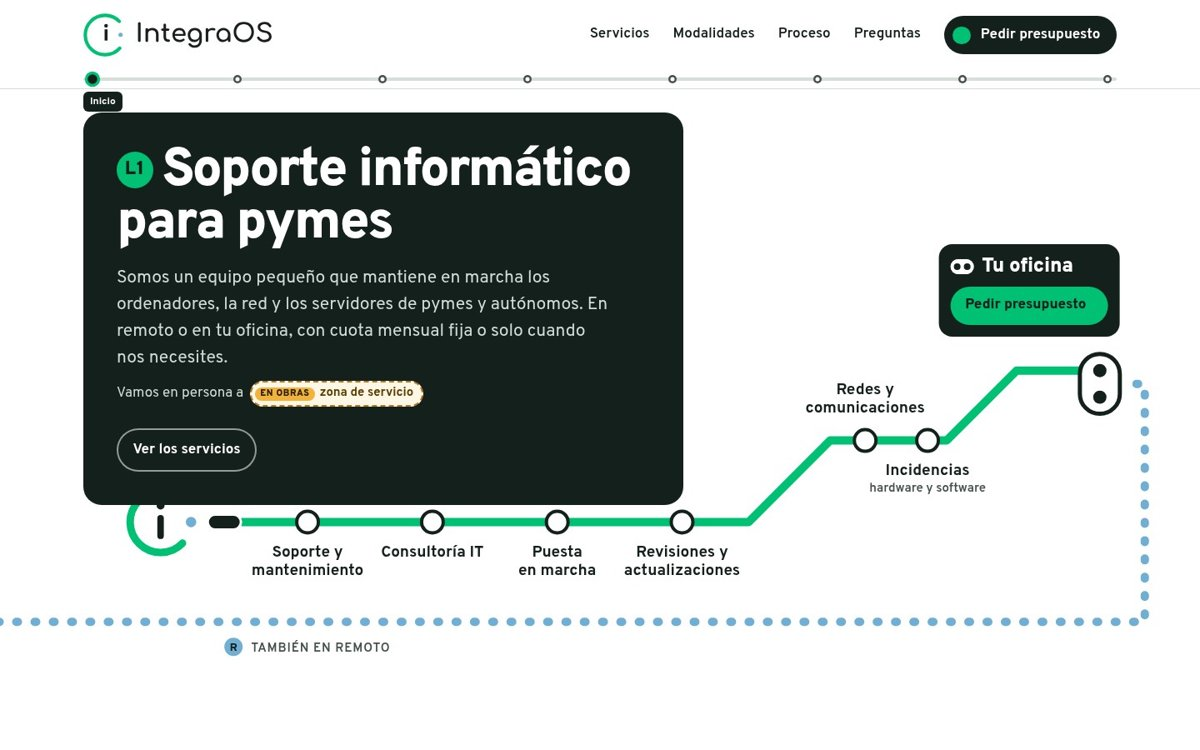
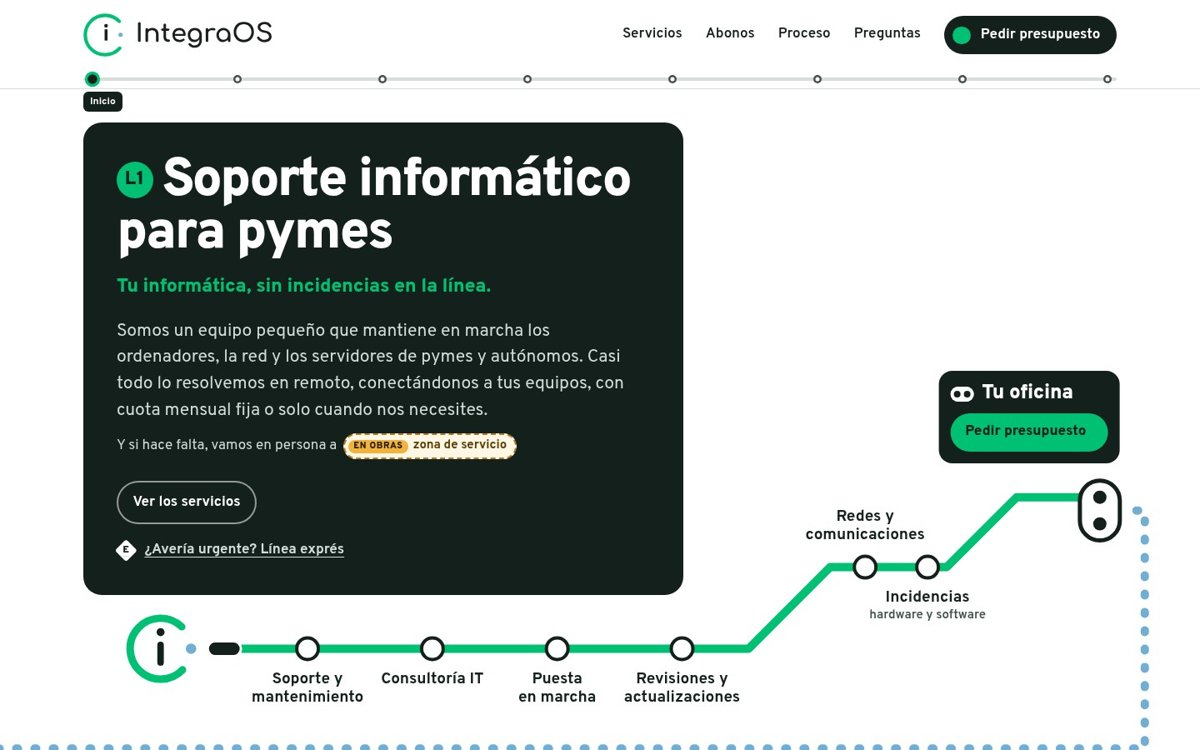
Eslogan, remoto primero y mejoras de diseño

Changed region(s): [[0.0, 0.1227, 0.9558, 0.9507], [0.0, 0.9813, 0.9558, 1.0], [0.4933, 0.0307, 0.6167, 0.0613]]

diff --git a/index.html b/index.html
@@ -57,7 +57,7 @@
     </button>
     <nav class="top__nav" id="menu" aria-label="Principal">
       <a href="#servicios">Servicios</a>
-      <a href="#modalidades">Modalidades</a>
+      <a href="#modalidades">Abonos</a>
       <a href="#proceso">Proceso</a>
       <a href="#preguntas">Preguntas</a>
       <a class="btn btn--primary" href="#presupuesto"><span class="bullet" aria-hidden="true"></span>Pedir presupuesto</a>
@@ -70,7 +70,7 @@
     <li><a href="#trato"><span>Trato directo</span></a></li>
     <li><a href="#problemas"><span>¿Te suena?</span></a></li>
     <li><a href="#servicios"><span>Servicios</span></a></li>
-    <li><a href="#modalidades"><span>Modalidades</span></a></li>
+    <li><a href="#modalidades"><span>Abonos</span></a></li>
     <li><a href="#proceso"><span>Proceso</span></a></li>
     <li><a href="#preguntas"><span>Preguntas</span></a></li>
     <li><a href="#presupuesto"><span>Presupuesto</span></a></li>
@@ -83,22 +83,24 @@
     <div class="wrap hero__over">
       <div class="hero__sign">
         <h1 id="hero-h"><span class="code code--line" aria-hidden="true">L1</span>Soporte informático para pymes</h1>
-        <p class="hero__lead">Somos un equipo pequeño que mantiene en marcha los ordenadores, la red y los servidores de pymes y autónomos. En remoto o en tu oficina, con cuota mensual fija o solo cuando nos necesites.</p>
-        <p class="hero__zone">Vamos en persona a <span class="tbd"><span class="tbd__code">EN OBRAS</span>zona de servicio</span></p>
+        <p class="hero__slogan">Tu informática, sin incidencias en la línea.</p>
+        <p class="hero__lead">Somos un equipo pequeño que mantiene en marcha los ordenadores, la red y los servidores de pymes y autónomos. Casi todo lo resolvemos en remoto, conectándonos a tus equipos, con cuota mensual fija o solo cuando nos necesites.</p>
+        <p class="hero__zone">Y si hace falta, vamos en persona a <span class="tbd"><span class="tbd__code">EN OBRAS</span>zona de servicio</span></p>
         <div class="hero__actions">
           <a class="btn btn--go only-narrow" href="#presupuesto"><span class="bullet bullet--ink" aria-hidden="true"></span>Pedir presupuesto</a>
           <a class="btn btn--outline-light" href="#servicios">Ver los servicios</a>
         </div>
+        <a class="hero__urgent" href="#urgente"><span class="code code--express" aria-hidden="true"><span>E</span></span>¿Avería urgente? Línea exprés</a>
       </div>
     </div>
 
     <!-- Plano horizontal (desde 761px): las líneas llegan a los bordes de la pantalla -->
     <figure class="map map--h">
       <svg viewBox="0 0 1240 610" role="img" aria-labelledby="map-h-t">
-        <title id="map-h-t">Plano de los servicios de IntegraOS como una línea de metro: soporte y mantenimiento, consultoría IT, puesta en marcha, revisiones y actualizaciones, redes y comunicaciones e incidencias, todas con destino a tu oficina, en presencial o en remoto.</title>
+        <title id="map-h-t">Plano de los servicios de IntegraOS como una línea de metro: soporte y mantenimiento, consultoría IT, puesta en marcha, revisiones y actualizaciones, redes y comunicaciones e incidencias, todas con destino a tu oficina, en remoto y, si hace falta, en persona.</title>
         <g transform="translate(120 0) scale(.86)">
         <path class="m-line m-blue" d="M-560 560 H1236 V274 H1206"/>
-        <circle cx="141" cy="590" r="11" fill="#70AED4"/><text class="m-code" x="141" y="595" text-anchor="middle">R</text><text class="m-label m-label--small m-blue-ink" x="162" y="596">TAMBIÉN EN REMOTO</text>
+        <circle cx="141" cy="590" r="11" fill="#70AED4"/><text class="m-code" x="141" y="595" text-anchor="middle">P</text><text class="m-label m-label--small m-blue-ink" x="162" y="596">TAMBIÉN EN PERSONA</text>
         <path class="m-line m-green" d="M130 440 H760 L858 342 H998 L1082 258 H1158"/>
         <g transform="translate(5.4 392) scale(3)" aria-hidden="true">
           <path d="M24.78 24.47A12.2 12.2 0 1 1 24.47 7.22" fill="none" stroke="#00C074" stroke-width="3" stroke-linecap="round"/>
@@ -124,7 +126,7 @@
     <figure class="map map--v">
       <div class="wrap">
         <svg viewBox="0 0 360 600" role="img" aria-labelledby="map-v-t">
-          <title id="map-v-t">Plano de los servicios de IntegraOS como una línea de metro con destino a tu oficina, en presencial o en remoto.</title>
+          <title id="map-v-t">Plano de los servicios de IntegraOS como una línea de metro con destino a tu oficina, en remoto y, si hace falta, en persona.</title>
           <path class="m-line m-blue" d="M96 120 V500 L66 530"/>
           <path class="m-line m-green" d="M48 96 V556"/>
           <g transform="translate(16 18) scale(2)" aria-hidden="true">
@@ -139,7 +141,7 @@
           <g><circle class="m-stop" cx="48" cy="335" r="12"/><text class="m-label" x="124" y="341">Redes y comunicaciones</text></g>
           <g><circle class="m-stop" cx="48" cy="400" r="12"/><text class="m-label" x="124" y="406">Incidencias</text></g>
           <g><circle class="m-stop" cx="48" cy="465" r="12"/><text class="m-label" x="124" y="471">Revisiones</text></g>
-          <circle cx="135" cy="503" r="11" fill="#70AED4"/><text class="m-code" x="135" y="508" text-anchor="middle">R</text><text class="m-label m-label--small m-blue-ink" x="154" y="509">TAMBIÉN EN REMOTO</text>
+          <circle cx="135" cy="503" r="11" fill="#70AED4"/><text class="m-code" x="135" y="508" text-anchor="middle">P</text><text class="m-label m-label--small m-blue-ink" x="154" y="509">TAMBIÉN EN PERSONA</text>
           <g class="m-train" style="offset-path: path('M48 100 V540')" aria-hidden="true"><rect x="-9" y="-20" width="18" height="40" rx="9"/></g>
           <rect class="m-hub" x="24" y="542" width="76" height="48" rx="24"/><circle cx="48" cy="566" r="8" fill="#14201b"/><circle cx="76" cy="566" r="8" fill="#14201b"/>
         </svg>
@@ -168,11 +170,11 @@
         </div>
         <div class="legend__row">
           <svg viewBox="0 0 64 24" aria-hidden="true"><path d="M4 12h56" stroke="#00C074" stroke-width="9" stroke-linecap="round"/></svg>
-          <p><strong><span class="code code--line" aria-hidden="true">P</span>Presencial</strong><span>Vamos a tu oficina a instalar, revisar o reparar.</span></p>
+          <p><strong><span class="code code--line" aria-hidden="true">R</span>Remoto</strong><span>La línea principal: nos conectamos a tu equipo y lo resolvemos sin desplazarnos.</span></p>
         </div>
         <div class="legend__row">
           <svg viewBox="0 0 64 24" aria-hidden="true"><path d="M4 12h56" stroke="#70AED4" stroke-width="9" stroke-linecap="round" stroke-dasharray="2 13"/></svg>
-          <p><strong><span class="code code--remote" aria-hidden="true">R</span>Remoto</strong><span>Nos conectamos a tu equipo y lo resolvemos sin desplazarnos.</span></p>
+          <p><strong><span class="code code--alt" aria-hidden="true">P</span>Presencial</strong><span>Cuando hace falta, vamos a tu oficina a instalar, revisar o reparar.</span></p>
         </div>
         <div class="legend__row">
           <svg viewBox="0 0 64 24" aria-hidden="true"><circle cx="32" cy="12" r="8" fill="#14201b" stroke="#fff" stroke-width="4"/></svg>
@@ -181,6 +183,10 @@
         <div class="legend__row">
           <svg viewBox="0 0 64 24" aria-hidden="true"><rect x="12" y="2" width="40" height="20" rx="10" fill="#fff"/><circle cx="23" cy="12" r="4.5" fill="#14201b"/><circle cx="41" cy="12" r="4.5" fill="#14201b"/></svg>
           <p><strong>Tu oficina</strong><span>Donde acaban todas las líneas.</span></p>
+        </div>
+        <div class="legend__row">
+          <svg viewBox="0 0 64 24" aria-hidden="true"><rect x="24" y="4" width="16" height="16" rx="2" transform="rotate(45 32 12)" fill="#fff"/><text x="32" y="16.5" text-anchor="middle" font-family="Overpass, sans-serif" font-weight="850" font-size="11" fill="#14201b">E</text></svg>
+          <p><strong>Línea exprés</strong><span>Para averías urgentes: cuando algo ha dejado de funcionar.</span></p>
         </div>
       </div>
     </div>
@@ -193,6 +199,7 @@
       <div class="finder">
         <div class="finder__head" aria-hidden="true"><span>Si te pasa…</span><span>Tu parada</span></div>
         <ol>
+        <li><q>Se ha parado todo y no podemos trabajar.</q><a class="finder__to finder__to--express" href="#urgente"><span class="code code--express" aria-hidden="true"><span>E</span></span>Línea exprés</a></li>
         <li><q>El wifi no llega a la sala de reuniones.</q><a class="finder__to" href="#s-redes"><span class="bullet" aria-hidden="true"></span>Redes y comunicaciones</a></li>
         <li><q>Necesito conectarme al ordenador de la oficina desde casa.</q><a class="finder__to" href="#s-redes"><span class="bullet" aria-hidden="true"></span>Redes y comunicaciones <span class="sep" aria-hidden="true">·</span> VPN</a></li>
         <li><q>Un ordenador tarda una eternidad en arrancar.</q><a class="finder__to" href="#s-incidencias"><span class="bullet" aria-hidden="true"></span>Incidencias</a></li>
@@ -208,12 +215,12 @@
     <div class="wrap">
       <h2 class="h2 sign" id="servicios-h">Servicios informáticos para tu negocio</h2>
       <p class="intro">Todo lo que necesita la informática de una pyme, con una excepción: no nos dedicamos a la ciberseguridad (firewalls, antivirus), y preferimos decírtelo desde el principio.</p>
-      <p class="modes-note"><span class="modes-note__codes" aria-hidden="true"><span class="code code--line">P</span><span class="code code--remote">R</span></span><span>Todos los servicios, en tu oficina y en remoto, salvo la puesta en marcha, que es siempre presencial.</span></p>
+      <p class="modes-note"><span class="modes-note__codes" aria-hidden="true"><span class="code code--line">R</span><span class="code code--alt">P</span></span><span>Todos los servicios en remoto y, cuando hace falta, en tu oficina. La puesta en marcha es siempre presencial.</span></p>
       <!-- PENDIENTE: copias de seguridad y Microsoft 365 / correo, solo si se confirman -->
       <ol class="stops">
         <li class="stop" id="s-soporte"><img class="stop__img" src="assets/img/soporte-480.webp" srcset="assets/img/soporte-480.webp 480w, assets/img/soporte-960.webp 960w" sizes="(max-width: 899px) 90vw, 200px" width="480" height="320" alt="Un puesto de trabajo con un portátil y dos monitores" loading="lazy" decoding="async"><div class="stop__body"><h3>Soporte y mantenimiento</h3><p>Resolvemos dudas y averías del día a día y mantenemos tus equipos en forma para que no fallen.</p><a class="stop__go" href="#presupuesto" data-servicio="Soporte y mantenimiento">Pedir presupuesto para esto<svg class="arrow" viewBox="0 0 16 16" aria-hidden="true"><path d="M2 8h11M9 4l4 4-4 4" fill="none" stroke="currentColor" stroke-width="2" stroke-linecap="round" stroke-linejoin="round"/></svg></a></div></li>
         <li class="stop" id="s-consultoria"><img class="stop__img" src="assets/img/consultoria-480.webp" srcset="assets/img/consultoria-480.webp 480w, assets/img/consultoria-960.webp 960w" sizes="(max-width: 899px) 90vw, 200px" width="480" height="320" alt="Un portátil abierto junto a una libreta, una regla y un lápiz" loading="lazy" decoding="async"><div class="stop__body"><h3>Consultoría IT</h3><p>Analizamos cómo trabajáis y planificamos qué equipos, sistemas y programas os convienen antes de gastar.</p><a class="stop__go" href="#presupuesto" data-servicio="Consultoría IT">Pedir presupuesto para esto<svg class="arrow" viewBox="0 0 16 16" aria-hidden="true"><path d="M2 8h11M9 4l4 4-4 4" fill="none" stroke="currentColor" stroke-width="2" stroke-linecap="round" stroke-linejoin="round"/></svg></a></div></li>
-        <li class="stop stop--only" id="s-marcha"><img class="stop__img" src="assets/img/puesta-en-marcha-480.webp" srcset="assets/img/puesta-en-marcha-480.webp 480w, assets/img/puesta-en-marcha-960.webp 960w" sizes="(max-width: 899px) 90vw, 200px" width="480" height="320" alt="Un portátil sobre una mesa de madera en una oficina" loading="lazy" decoding="async"><div class="stop__body"><h3>Puesta en marcha</h3><p>Instalamos y configuramos ordenadores, servidores y software, y enseñamos a tu equipo a usarlos.</p><div class="modes"><span class="mode"><span class="code code--line" aria-hidden="true">P</span>SOLO PRESENCIAL</span></div><a class="stop__go" href="#presupuesto" data-servicio="Puesta en marcha">Pedir presupuesto para esto<svg class="arrow" viewBox="0 0 16 16" aria-hidden="true"><path d="M2 8h11M9 4l4 4-4 4" fill="none" stroke="currentColor" stroke-width="2" stroke-linecap="round" stroke-linejoin="round"/></svg></a></div></li>
+        <li class="stop stop--only" id="s-marcha"><img class="stop__img" src="assets/img/puesta-en-marcha-480.webp" srcset="assets/img/puesta-en-marcha-480.webp 480w, assets/img/puesta-en-marcha-960.webp 960w" sizes="(max-width: 899px) 90vw, 200px" width="480" height="320" alt="Un portátil sobre una mesa de madera en una oficina" loading="lazy" decoding="async"><div class="stop__body"><h3>Puesta en marcha</h3><p>Instalamos y configuramos ordenadores, servidores y software, y enseñamos a tu equipo a usarlos.</p><div class="modes"><span class="mode"><span class="code code--alt" aria-hidden="true">P</span>SOLO PRESENCIAL</span></div><a class="stop__go" href="#presupuesto" data-servicio="Puesta en marcha">Pedir presupuesto para esto<svg class="arrow" viewBox="0 0 16 16" aria-hidden="true"><path d="M2 8h11M9 4l4 4-4 4" fill="none" stroke="currentColor" stroke-width="2" stroke-linecap="round" stroke-linejoin="round"/></svg></a></div></li>
         <li class="stop" id="s-redes"><img class="stop__img" src="assets/img/redes-480.webp" srcset="assets/img/redes-480.webp 480w, assets/img/redes-960.webp 960w" sizes="(max-width: 899px) 90vw, 200px" width="480" height="320" alt="Cables de red azules conectados a un switch" loading="lazy" decoding="async"><div class="stop__body"><h3>Redes y comunicaciones</h3><p>Red local, wifi que llegue a toda la oficina, conexión a internet y VPN para trabajar desde fuera.</p><a class="stop__go" href="#presupuesto" data-servicio="Redes y comunicaciones">Pedir presupuesto para esto<svg class="arrow" viewBox="0 0 16 16" aria-hidden="true"><path d="M2 8h11M9 4l4 4-4 4" fill="none" stroke="currentColor" stroke-width="2" stroke-linecap="round" stroke-linejoin="round"/></svg></a></div></li>
         <li class="stop" id="s-incidencias"><img class="stop__img" src="assets/img/incidencias-480.webp" srcset="assets/img/incidencias-480.webp 480w, assets/img/incidencias-960.webp 960w" sizes="(max-width: 899px) 90vw, 200px" width="480" height="320" alt="Un pequeño servidor abierto con un destornillador al lado" loading="lazy" decoding="async"><div class="stop__body"><h3>Incidencias de hardware y software</h3><p>Sistemas operativos, aplicaciones, servidores y puestos de trabajo que fallan o van lentos.</p><a class="stop__go" href="#presupuesto" data-servicio="Incidencias de hardware y software">Pedir presupuesto para esto<svg class="arrow" viewBox="0 0 16 16" aria-hidden="true"><path d="M2 8h11M9 4l4 4-4 4" fill="none" stroke="currentColor" stroke-width="2" stroke-linecap="round" stroke-linejoin="round"/></svg></a></div></li>
         <li class="stop" id="s-revisiones"><img class="stop__img" src="assets/img/revisiones-480.webp" srcset="assets/img/revisiones-480.webp 480w, assets/img/revisiones-960.webp 960w" sizes="(max-width: 899px) 90vw, 200px" width="480" height="320" alt="Un armario de servidores con el cableado ordenado" loading="lazy" decoding="async"><div class="stop__body"><h3>Revisiones y actualizaciones</h3><p>Revisamos y actualizamos tus sistemas cada cierto tiempo, para que nada se quede atrás sin que te des cuenta.</p><a class="stop__go" href="#presupuesto" data-servicio="Revisiones y actualizaciones">Pedir presupuesto para esto<svg class="arrow" viewBox="0 0 16 16" aria-hidden="true"><path d="M2 8h11M9 4l4 4-4 4" fill="none" stroke="currentColor" stroke-width="2" stroke-linecap="round" stroke-linejoin="round"/></svg></a></div></li>
@@ -233,7 +240,7 @@
             <p class="pass__price">Mantenimiento continuo</p>
             <p class="pass__for">Para negocios que dependen de sus equipos cada día y quieren saber qué pagan cada mes.</p>
             <ul>
-              <li><span>Soporte en remoto y en tu oficina</span></li>
+              <li><span>Soporte en remoto, y en tu oficina si hace falta</span></li>
               <li><span>Revisiones y actualizaciones periódicas</span></li>
               <li><span>Un precio fijo que conoces de antemano</span></li>
               <li><span>Permanencia: <span class="tbd"><span class="tbd__code">EN OBRAS</span>permanencia</span></span></li>
@@ -280,7 +287,7 @@
       <h2 class="h2 sign" id="preguntas-h">Preguntas frecuentes</h2>
       <div class="faq">
         <details open><summary>¿Quién me atiende cuando tengo un problema?</summary><p>Uno de los técnicos del equipo, directamente. Somos un equipo pequeño: no hay centralita ni tickets que pasan de mano en mano, y quien te atiende conoce tu instalación.</p></details>
-        <details><summary>¿Trabajáis en remoto o venís a la oficina?</summary><p>Las dos cosas. Muchas incidencias se resuelven conectándonos a tu equipo en remoto, que es más rápido. Para instalar, cablear o revisar equipos, vamos en persona.</p></details>
+        <details><summary>¿Trabajáis en remoto o venís a la oficina?</summary><p>Sobre todo en remoto: conectándonos a tu equipo resolvemos la mayoría de incidencias, más rápido y sin esperar a que lleguemos. Para instalar, cablear o revisar equipos, vamos en persona.</p></details>
         <details><summary>¿Cuánto cuesta?</summary><p>No publicamos precios porque cada negocio tiene equipos y necesidades distintas. Nos cuentas qué necesitas y te enviamos un presupuesto sin compromiso antes de empezar.</p></details>
         <details><summary>¿Qué diferencia hay entre el abono mensual y el billete sencillo?</summary><p>El abono es un mantenimiento con cuota fija al mes que incluye soporte y revisiones periódicas. El billete sencillo es una asistencia puntual: pagas cada intervención y no hay cuota.</p></details>
         <details><summary>¿En qué zona trabajáis?</summary><p>En remoto, en cualquier sitio. En persona, en <span class="tbd"><span class="tbd__code">EN OBRAS</span>zona de servicio</span>.</p></details>
@@ -307,7 +314,7 @@
       <div>
         <h2 class="h2 sign" id="presupuesto-h">Pide presupuesto sin compromiso</h2>
         <p class="intro">Cuéntanos qué necesitas y te respondemos con una propuesta. Si no te encaja, lo dejamos ahí.</p>
-        <div class="express">
+        <div class="express" id="urgente">
           <p class="express__title"><span class="code code--express" aria-hidden="true"><span>E</span></span>Línea exprés: algo ha dejado de funcionar</p>
           <p>Llámanos al <span class="tbd"><span class="tbd__code">EN OBRAS</span>teléfono</span> o escríbenos por WhatsApp al <span class="tbd"><span class="tbd__code">EN OBRAS</span>WhatsApp</span>.</p>
         </div>
@@ -371,7 +378,7 @@
       </div>
       <div>
         <h2>En esta página</h2>
-        <ul><li><a href="#servicios">Servicios</a></li><li><a href="#modalidades">Modalidades</a></li><li><a href="#proceso">Proceso</a></li><li><a href="#preguntas">Preguntas</a></li><li><a href="#presupuesto">Pedir presupuesto</a></li></ul>
+        <ul><li><a href="#servicios">Servicios</a></li><li><a href="#modalidades">Abonos</a></li><li><a href="#proceso">Proceso</a></li><li><a href="#preguntas">Preguntas</a></li><li><a href="#presupuesto">Pedir presupuesto</a></li></ul>
       </div>
       <div>
         <h2>Contacto</h2>
@@ -387,7 +394,7 @@
 </footer>
 
 <div class="actionbar" hidden>
-  <span class="actionbar__call">Llamar <span class="tbd"><span class="tbd__code">EN OBRAS</span>teléfono</span></span>
+  <span class="actionbar__call">Llamar <span class="tbd"><span class="tbd__code">EN OBRAS</span></span></span>
   <a class="btn btn--primary" href="#presupuesto"><span class="bullet" aria-hidden="true"></span>Pedir presupuesto</a>
 </div>
 

diff --git a/assets/css/site.css b/assets/css/site.css
@@ -113,7 +113,8 @@ h1, h2, h3 { margin: 0; font-weight: 800; letter-spacing: -.02em; line-height: 1
   background: var(--sign); color: var(--sign-ink); font-size: .75rem; font-weight: 700; opacity: 0; pointer-events: none; transition: opacity .15s; }
 .routebar li:first-child span { left: 0; transform: translate(0, 4px); }
 .routebar li:last-child span { left: auto; right: 0; transform: translate(0, 4px); }
-.routebar a:hover span, .routebar a:focus-visible span, .routebar a[aria-current] span { opacity: 1; }
+.routebar a:hover span, .routebar a:focus-visible span { opacity: 1; }
+@media (min-width: 861px) { .routebar a[aria-current] span { opacity: 1; } }
 @media (max-width: 860px) { .routebar { height: 10px; } .routebar a { width: 14px; height: 10px; } .routebar a::before { width: 7px; height: 7px; } }
 
 /* ---------- sections ---------- */
@@ -137,6 +138,10 @@ section { padding-block: clamp(72px, 9vw, 136px); }
 .hero h1 { font-size: clamp(2.4rem, 1.2rem + 3.6vw, 4rem); font-weight: 850; letter-spacing: -.035em; line-height: .98; }
 .hero h1 .code { font-size: .36em; vertical-align: .55em; margin-right: .45em; }
 .hero__lead { margin-top: 18px; font-size: var(--t-lead); line-height: 1.5; max-width: 46ch; color: #d3ddd8; }
+.hero__slogan { margin-top: 14px; font-size: clamp(1.15rem, 1rem + .6vw, 1.45rem); font-weight: 800; letter-spacing: -.01em; color: var(--line-green); }
+.hero__urgent { display: inline-flex; align-items: center; gap: 10px; margin-top: 18px; color: #d3ddd8; font-weight: 700; text-decoration: underline; text-underline-offset: .25em; }
+.hero__urgent:hover { color: var(--sign-ink); }
+.hero__urgent .code--express { background: var(--paper); color: var(--ink); }
 .hero__zone { margin-top: 12px; color: #d3ddd8; display: flex; align-items: center; gap: 8px; flex-wrap: wrap; }
 .hero__actions { display: flex; flex-wrap: wrap; gap: 12px; margin-top: 26px; }
 .btn--go { background: var(--line-green); color: var(--ink); }
@@ -153,8 +158,11 @@ section { padding-block: clamp(72px, 9vw, 136px); }
 .only-narrow { display: none; }
 @media (max-width: 760px) { .map--h { display: none; } .map--v { display: block; } .only-narrow { display: inline-flex; } }
 @media (min-width: 1280px) {   /* the sign overlays the map only where the low line clears it */
-  .hero__over { position: absolute; top: clamp(20px, 2vw, 28px); left: 0; right: 0; z-index: 2; }
-  .map--h { margin-top: 48px; }
+  /* the sign stays in the flow and the map slides up under it by the height of its empty top band:
+     the low line sits 0.305vw below the map's top, so it always lands 64px under the sign, whatever the sign's height */
+  .hero { padding-top: 40px; padding-bottom: 8px; }
+  .hero__over { position: relative; z-index: 2; }
+  .map--h { margin-top: calc(64px - 30.5vw); }
 }
 /* the destination sign: "Tu oficina" and its action, set beside the interchange */
 .dest { display: inline-grid; gap: 10px; padding: 14px; border-radius: 16px; background: var(--sign); color: var(--sign-ink); text-decoration: none;
@@ -179,7 +187,7 @@ section { padding-block: clamp(72px, 9vw, 136px); }
 /* line codes: the map's uppercase lettering */
 .code { display: inline-grid; place-items: center; min-width: 1.9em; height: 1.9em; padding: 0 .35em; border-radius: 999px; flex: none;
   font-weight: 850; font-size: .75rem; letter-spacing: .04em; line-height: 1; text-transform: uppercase; color: var(--ink); background: var(--line-green); }
-.code--remote { background: var(--line-blue); }
+.code--alt { background: var(--line-blue); }
 .m-blue-ink { fill: var(--blue); letter-spacing: .06em; font-weight: 800; }
 
 /* map drawing */
@@ -220,10 +228,11 @@ section { padding-block: clamp(72px, 9vw, 136px); }
 .finder ol { list-style: none; margin: 0; padding: 0; }
 .finder li { display: grid; gap: 12px; padding: 20px 0; border-bottom: 1px solid #c8d3ce; }
 .finder q { quotes: "«" "»"; font-size: clamp(1.15rem, 1.05rem + .5vw, 1.45rem); font-weight: 750; line-height: 1.3; letter-spacing: -.01em; }
-.finder__to { justify-self: start; display: inline-flex; align-items: center; gap: 10px; padding: 8px 14px 7px 9px; border-radius: 999px; background: var(--sign); color: var(--sign-ink);
+.finder__to { justify-self: start; display: inline-flex; align-items: center; gap: 10px; padding: 7px 14px 6px 8px; border-radius: 999px; background: var(--paper); color: var(--ink); box-shadow: inset 0 0 0 2px var(--ink);
   font-weight: 700; font-size: .9375rem; text-decoration: none; transition: transform .25s var(--ease); }
 .finder__to:hover { transform: translateX(3px); }
-.finder__to .bullet { width: 1.1em; height: 1.1em; }
+.finder__to .bullet { width: 1.05em; height: 1.05em; background: var(--paper); box-shadow: inset 0 0 0 .22em var(--line-green); }
+.finder__to--express .code--express { font-size: .7rem; }
 @media (min-width: 820px) {
   .finder__head { display: grid; grid-template-columns: 1fr 320px; gap: 32px; padding: 12px 0; border-bottom: 1px solid var(--ink);
     font-size: .875rem; font-weight: 800; color: var(--ink-2); }
@@ -276,8 +285,9 @@ section { padding-block: clamp(72px, 9vw, 136px); }
 .pass ul { list-style: none; margin: 0; padding: 0; display: grid; gap: 10px; }
 .pass li { display: grid; grid-template-columns: 22px 1fr; gap: 12px; align-items: start; }
 .pass li::before { content: ""; width: 16px; height: 16px; margin-top: 4px; border-radius: 50%; box-shadow: inset 0 0 0 4px var(--ink); }
-.pass__go { justify-self: start; display: inline-flex; align-items: center; gap: 8px; margin-top: 4px; font-weight: 700; color: var(--green); text-decoration: none; min-height: 32px; }
+.pass__go { justify-self: start; display: inline;  margin-top: 4px; font-weight: 700; color: var(--green); text-decoration: none; min-height: 32px; }
 .pass__go:hover { text-decoration: underline; }
+.pass__go .arrow { display: inline-block; vertical-align: -.12em; margin-left: 6px; }
 .which { margin-top: 32px; display: grid; gap: 12px; max-width: 62ch; color: var(--ink-2); }
 .which strong { color: var(--ink); }
 
@@ -309,7 +319,7 @@ section { padding-block: clamp(72px, 9vw, 136px); }
 .arrival h2 { font-size: clamp(2rem, 1.5rem + 2.2vw, 3.2rem); margin: 0 0 12px; }
 .arrival h2 .code { font-size: .32em; vertical-align: .5em; margin-right: .5em; }
 .arrival__plate > p:last-child { color: #d3ddd8; }
-@media (max-width: 640px) { .arrival__plate::after { display: none; } }
+@media (max-width: 640px) { .arrival__plate::after { display: none; } .arrival__img { object-position: 50% 85%; } }
 
 /* ---------- FAQ ---------- */
 .faq { margin-top: 48px; display: grid; gap: 0; border-top: 2px solid var(--ink); max-width: 880px; }
@@ -384,8 +394,8 @@ section { padding-block: clamp(72px, 9vw, 136px); }
 .actionbar { position: fixed; left: 0; right: 0; bottom: 0; z-index: 40; display: flex; justify-content: center; padding: 10px var(--gut) calc(10px + env(safe-area-inset-bottom));
   background: rgba(255,255,255,.96); border-top: 1px solid var(--hair); transform: translateY(110%); transition: transform .3s var(--ease); }
 .actionbar { gap: 12px; align-items: center; }
-.actionbar__call { display: flex; align-items: center; gap: 6px; flex: none; font-weight: 700; font-size: .875rem; }
-.actionbar__call .tbd__code { display: none; }
+.actionbar__call { display: inline-flex; align-items: center; justify-content: center; gap: 8px; flex: none; min-height: 46px; padding: 0 14px; border-radius: 999px; box-shadow: inset 0 0 0 2px var(--ink); font-weight: 700; }
+.actionbar__call .tbd { padding: 2px; border-width: 1.5px; }
 .actionbar .btn { flex: 1; max-width: 420px; justify-content: center; white-space: nowrap; padding-inline: .9em; }
 .actionbar.is-shown { transform: none; }
 @media (min-width: 1001px) { .actionbar { display: none; } }
